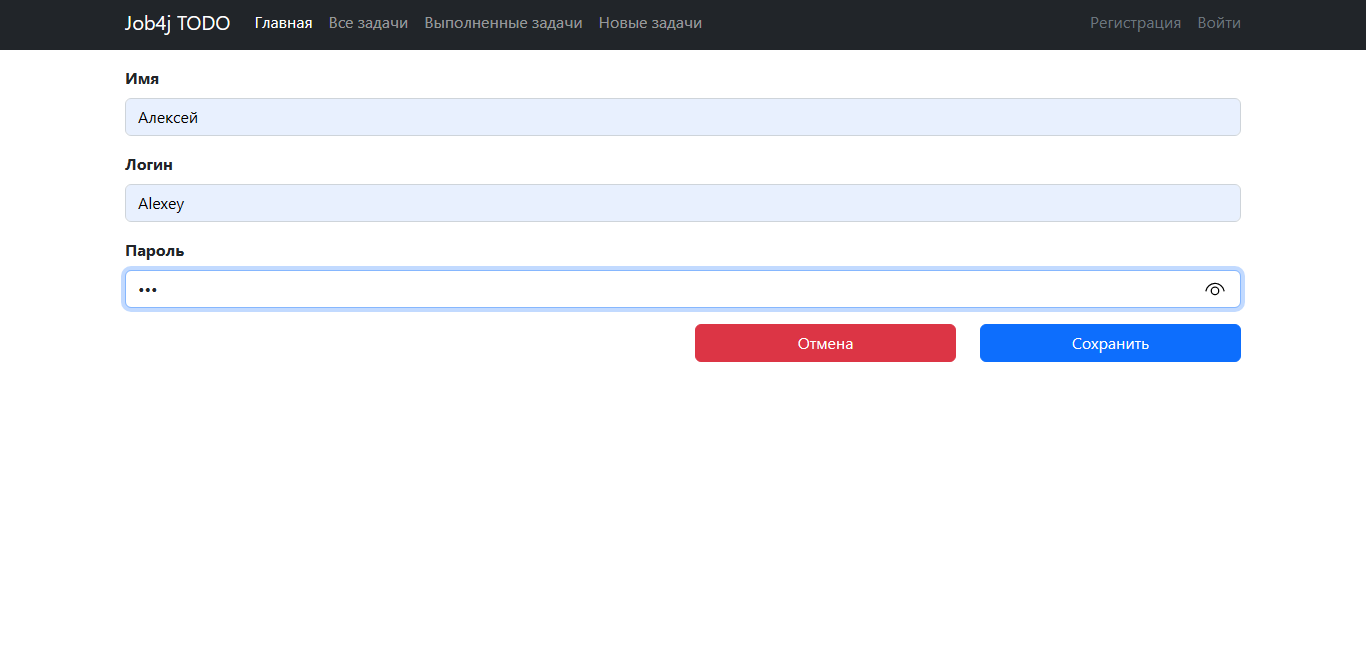
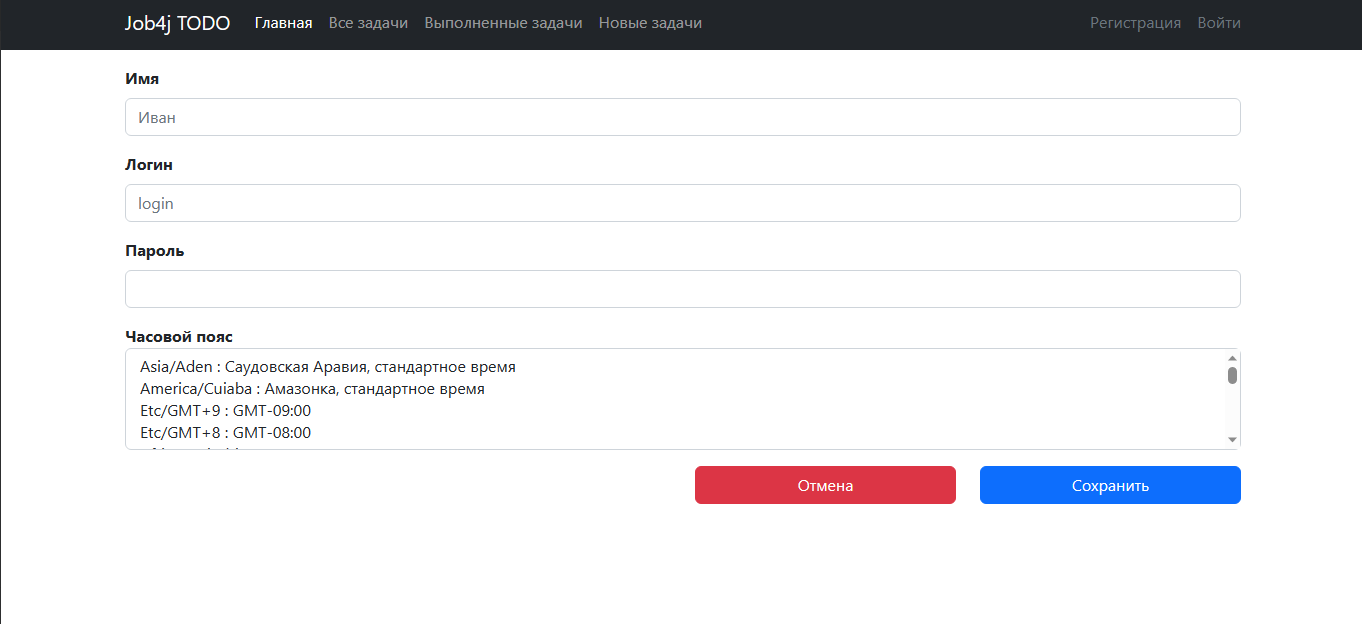
5. Date [#331992 #412413]

diff --git a/src/test/java/ru/job4j/todo/controller/TaskControllerTest.java b/src/test/java/ru/job4j/todo/controller/TaskControllerTest.java
@@ -53,29 +53,29 @@ public class TaskControllerTest {
         user = new User(1, "user", "user", "123", "UTC");
     }
 
-//    @Test
-//    void whenRequestTaskListPageThenGetPageWithTasks() {
-//        var task1 = new Task(1, "test1", now(), false, user, new Priority(), List.of());
-//        var task2 = new Task(2, "test2", now(), false, user, new Priority(), List.of());
-//        List<Task> expectedTasks = List.of(task1, task2);
-//        when(taskService.findAll()).thenReturn(expectedTasks);
-//
-//        var model = new ConcurrentModel();
-//        String view = taskController.getAll(model, httpSession);
-//        var actualTasks = model.getAttribute("tasks");
-//
-//        assertThat(view).isEqualTo("tasks/list");
-//        assertThat(actualTasks).isEqualTo(expectedTasks);
-//    }
+    @Test
+    void whenRequestTaskListPageThenGetPageWithTasks() {
+        var task1 = new Task(1, "test1", now(), false, user, new Priority(), List.of());
+        var task2 = new Task(2, "test2", now(), false, user, new Priority(), List.of());
+        List<Task> expectedTasks = List.of(task1, task2);
+        when(taskService.findAll()).thenReturn(expectedTasks);
+
+        var model = new ConcurrentModel();
+        String view = taskController.getAll(model, user);
+        var actualTasks = model.getAttribute("tasks");
+
+        assertThat(view).isEqualTo("tasks/list");
+        assertThat(actualTasks).isEqualTo(expectedTasks);
+    }
 
     @Test
     public void whenRequestIdThenGetPageWithTasks() {
         int searchId = 1;
-        var task1 = new Task(1, "test1", now(), false, new User(), new Priority(), List.of());
+        var task1 = new Task(1, "test1", now(), false, user, new Priority(), List.of());
         when(taskService.findById(searchId)).thenReturn(Optional.of(task1));
 
         var model = new ConcurrentModel();
-        String view = taskController.getById(model, searchId);
+        String view = taskController.getById(model, searchId, user);
         var actualTask = model.getAttribute("task");
 
         assertThat(view).isEqualTo("tasks/info");
@@ -89,7 +89,7 @@ public class TaskControllerTest {
         when(taskService.findById(notExistID)).thenReturn(Optional.empty());
 
         var model = new ConcurrentModel();
-        String view = taskController.getById(model, notExistID);
+        String view = taskController.getById(model, notExistID, user);
         var actualMessage = model.getAttribute("message");
 
         assertThat(view).isEqualTo("errors/404");
@@ -150,13 +150,13 @@ public class TaskControllerTest {
 
     @Test
     void whenRequestTaskListDonePageThenGetPageWithDoneTasks() {
-        var task1 = new Task(1, "test1", now(), true, new User(), new Priority(), List.of());
-        var task2 = new Task(2, "test2", now(), false, new User(), new Priority(), List.of());
+        var task1 = new Task(1, "test1", now(), true, user, new Priority(), List.of());
+        var task2 = new Task(2, "test2", now(), false, user, new Priority(), List.of());
         List<Task> expectedDoneTasks = List.of(task1);
         when(taskService.findByDone(true)).thenReturn(expectedDoneTasks);
 
         var model = new ConcurrentModel();
-        String view = taskController.doneTask(model);
+        String view = taskController.doneTask(model, user);
         var actualTasks = model.getAttribute("tasks");
 
         assertThat(view).isEqualTo("tasks/list");
@@ -166,13 +166,13 @@ public class TaskControllerTest {
     @Test
     void whenRequestNewTaskListPageThenGetPageWithInfo() {
         var expectedMessage = "Выполненных задач не найдено";
-        var task1 = new Task(1, "test1", now(), true, new User(), new Priority(), List.of());
-        var task2 = new Task(2, "test2", now(), true, new User(), new Priority(), List.of());
+        var task1 = new Task(1, "test1", now(), true, user, new Priority(), List.of());
+        var task2 = new Task(2, "test2", now(), true, user, new Priority(), List.of());
         List<Task> expectedNewTasks = Collections.emptyList();
         when(taskService.findByDone(false)).thenReturn(expectedNewTasks);
 
         var model = new ConcurrentModel();
-        String view = taskController.doneTask(model);
+        String view = taskController.doneTask(model, user);
         var actualMessage = model.getAttribute("message");
 
         assertThat(view).isEqualTo("info/info");

diff --git a/src/main/java/ru/job4j/todo/controller/TaskController.java b/src/main/java/ru/job4j/todo/controller/TaskController.java
@@ -28,9 +28,9 @@ public class TaskController {
 
 
     @GetMapping
-    public String getAll(Model model, HttpSession session) {
+    public String getAll(Model model, @SessionAttribute User user) {
         var taskList = taskService.findAll();
-        taskList.forEach(task -> UserTimeZone.setUserTimeZone(session, task));
+        taskList.forEach(task -> UserTimeZone.setUserTimeZone(task, user));
         model.addAttribute("tasks", taskList);
         model.addAttribute("categories", categoryService.findAll());
         return "tasks/list";
@@ -57,12 +57,13 @@ public class TaskController {
     }
 
     @GetMapping("/{id}")
-    public String getById(Model model, @PathVariable int id) {
+    public String getById(Model model, @PathVariable int id, @SessionAttribute User user) {
         Optional<Task> taskOptional = taskService.findById(id);
         if (taskOptional.isEmpty()) {
             model.addAttribute("message", "Задача с указанным идентификатором не найдена");
             return "errors/404";
         }
+        UserTimeZone.setUserTimeZone(taskOptional.get(), user);
         model.addAttribute("priorities", priorityService.findAll());
         model.addAttribute("task", taskOptional.get());
         return "tasks/info";
@@ -118,23 +119,25 @@ public class TaskController {
     }
 
     @GetMapping("/done")
-    public String doneTask(Model model) {
+    public String doneTask(Model model, @SessionAttribute User user) {
         var taskCollection = taskService.findByDone(true);
         if (taskCollection.isEmpty()) {
             model.addAttribute("message", "Выполненных задач не найдено");
             return "info/info";
         }
+        taskCollection.forEach(task -> UserTimeZone.setUserTimeZone(task, user));
         model.addAttribute("tasks", taskCollection);
         return "tasks/list";
     }
 
     @GetMapping("/new")
-    public String newTask(Model model) {
+    public String newTask(Model model, @SessionAttribute User user) {
         var taskCollection = taskService.findByDone(false);
         if (taskCollection.isEmpty()) {
             model.addAttribute("message", "Новых задач не найдено");
             return "info/info";
         }
+        taskCollection.forEach(task -> UserTimeZone.setUserTimeZone(task, user));
         model.addAttribute("tasks", taskCollection);
         return "tasks/list";
     }

diff --git a/src/main/java/ru/job4j/todo/repository/HbmUserRepository.java b/src/main/java/ru/job4j/todo/repository/HbmUserRepository.java
@@ -6,6 +6,7 @@ import org.slf4j.LoggerFactory;
 import org.springframework.stereotype.Repository;
 import ru.job4j.todo.model.User;
 
+import java.time.ZoneId;
 import java.util.*;
 
 @Repository
@@ -38,8 +39,8 @@ public class HbmUserRepository implements UserRepository {
 
     @Override
     public List<TimeZone> listZone() {
-        List<TimeZone> zones = new ArrayList<TimeZone>();
-        for (String timeId : TimeZone.getAvailableIDs()) {
+        List<TimeZone> zones = new ArrayList<>();
+        for (String timeId : ZoneId.getAvailableZoneIds()) {
             zones.add(TimeZone.getTimeZone(timeId));
         }
         return zones;

diff --git a/src/main/java/ru/job4j/todo/UserTimeZone.java b/src/main/java/ru/job4j/todo/UserTimeZone.java
@@ -7,10 +7,12 @@ import javax.servlet.http.HttpSession;
 import java.time.ZoneId;
 import java.util.TimeZone;
 
-public class UserTimeZone {
+public final class UserTimeZone {
 
-    public static void setUserTimeZone(HttpSession session, Task task) {
-        var user = (User) session.getAttribute("user");
+    private UserTimeZone() {
+    }
+
+    public static void setUserTimeZone(Task task, User user) {
         if (user.getUserzone() == null) {
             user.setUserzone(TimeZone.getDefault().getID());
         }

diff --git a/README.md b/README.md
@@ -70,7 +70,7 @@ mvn spring-boot:run
 Страница при попытке входа с неверным логином или паролем.
 ![](images/10.png)
 
-Страница с регистрацией пользователя.
+Страница с регистрацией пользователя. При регистрации можно выбрать свой часовой пояс.
 ![](images/11.png)
 
 Отображение страницы при регистрации уже существующего пользователя.
